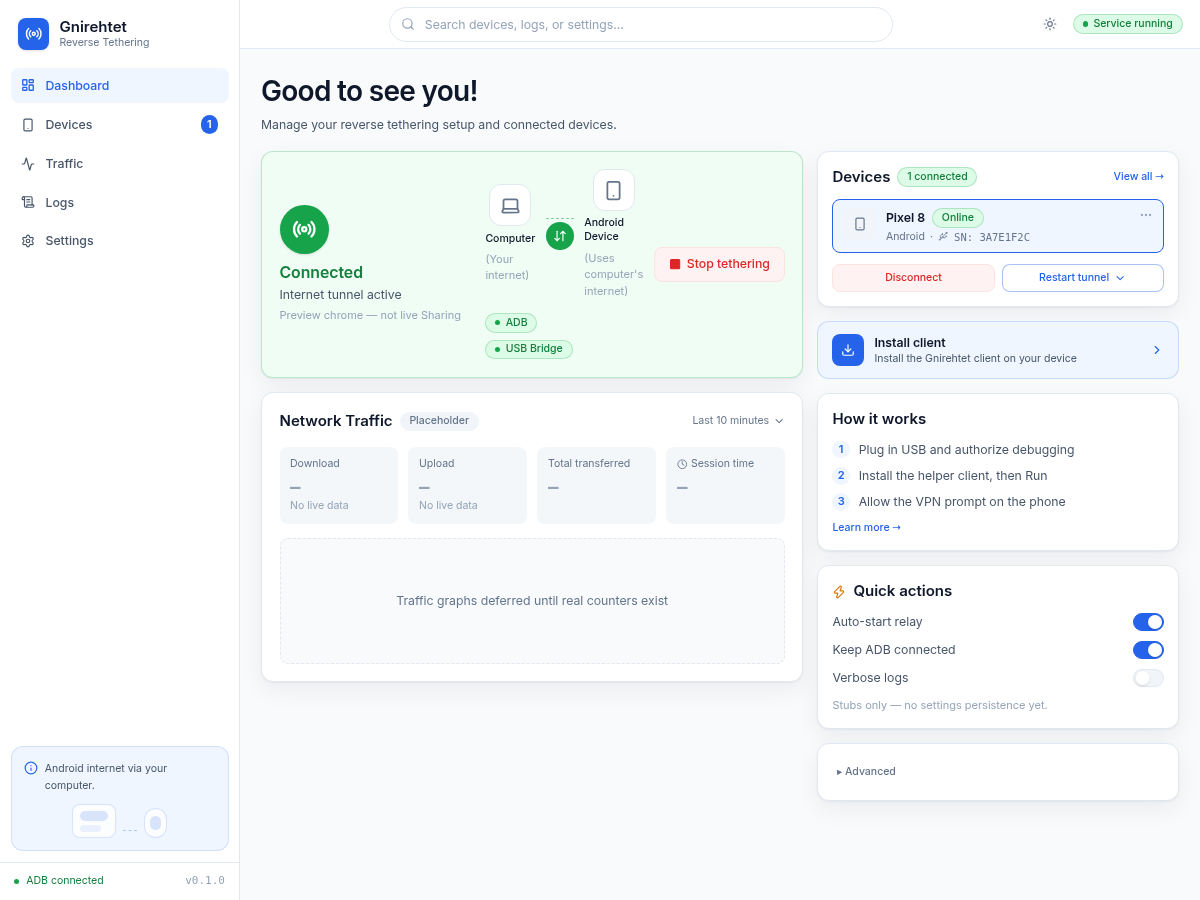
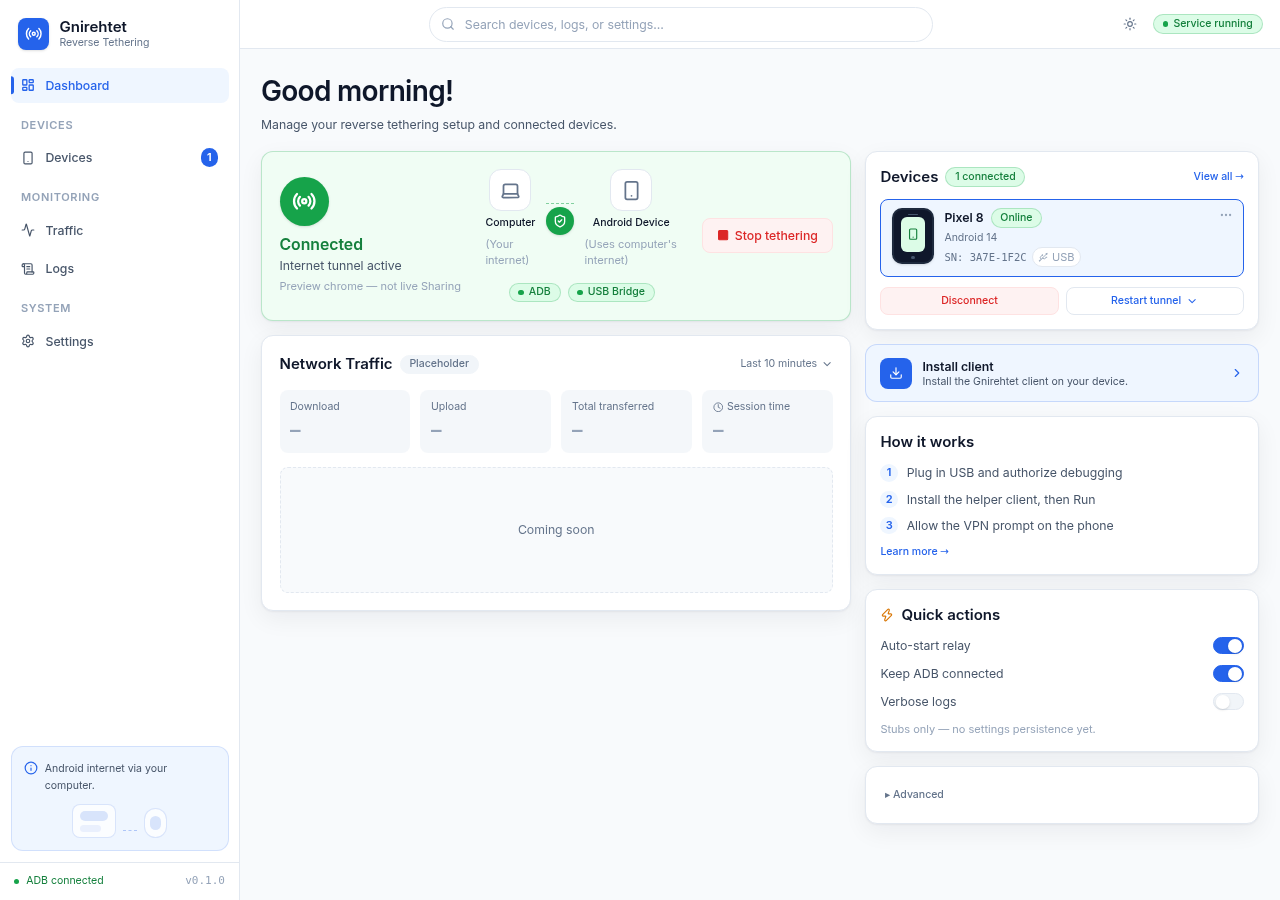
fix(ui): polish sidebar and DeviceCard to V3 mockup
Add sidebar section labels + 3px active bar; restyle DeviceCard phone
thumb, USB chip, and soft Disconnect / outline Restart; quiet traffic
placeholder; Connected hero uses shield/check. Honesty badges keep
"1 device" until Sharing/preview.

diff --git a/apps/desktop/src/routes/+page.svelte b/apps/desktop/src/routes/+page.svelte
@@ -78,10 +78,10 @@
     Lightbulb,
     Laptop,
     Smartphone,
-    ArrowDownUp,
     Clock,
     Wrench,
     CircleCheck,
+    ShieldCheck,
     AlertTriangle,
   } from "@lucide/svelte";
 
@@ -458,7 +458,7 @@
       adb = { path: "/usr/bin/adb", version: "1.0.41", available: true };
       adbErrorCode = null;
       devices = [
-        { serial: "3A7E1F2C", adbState: "device", model: "Pixel 8" },
+        { serial: "3A7E1F2C", adbState: "device", model: "Pixel 8", androidVersion: "14" },
       ];
       selectedSerial = "3A7E1F2C";
       relay = { state: "relay_stopped", ownedBySession: false };
@@ -469,7 +469,7 @@
       adb = { path: "/usr/bin/adb", version: "1.0.41", available: true };
       adbErrorCode = null;
       devices = [
-        { serial: "emulator-5554", adbState: "device", model: "Pixel Preview" },
+        { serial: "emulator-5554", adbState: "device", model: "Pixel Preview", androidVersion: "14" },
       ];
       selectedSerial = "emulator-5554";
       relay = {
@@ -491,7 +491,7 @@
       adb = { path: "/usr/bin/adb", version: "1.0.41", available: true };
       adbErrorCode = null;
       devices = [
-        { serial: "3A7E1F2C", adbState: "device", model: "Pixel 8" },
+        { serial: "3A7E1F2C", adbState: "device", model: "Pixel 8", androidVersion: "14" },
       ];
       selectedSerial = "3A7E1F2C";
       relay = {
@@ -804,9 +804,25 @@
   });
 
   function shortSerial(serial: string): string {
-    if (serial.length <= 12) return serial;
-    return `${serial.slice(0, 4)}-${serial.slice(4, 8)}-…`;
+    const clean = serial.replace(/[^a-zA-Z0-9]/g, "");
+    if (clean.length <= 8) {
+      return clean.match(/.{1,4}/g)?.join("-") ?? serial;
+    }
+    return `${clean.slice(0, 4)}-${clean.slice(4, 8)}-…`;
   }
+
+  /** Devices panel badge: "N connected" only when Sharing/preview; else "N device(s)". */
+  const devicesReadyCount = $derived(
+    devices.filter((d) => d.adbState === "device").length,
+  );
+  const devicesBadgeText = $derived.by(() => {
+    const n = devicesReadyCount;
+    if (n <= 0) return null;
+    if (showConnectedHero) {
+      return `${n} connected`;
+    }
+    return n === 1 ? "1 device" : `${n} devices`;
+  });
 </script>
 <AppShell
   bind:activeNav
@@ -860,9 +876,10 @@
                     <div class="flex flex-1 flex-col items-center gap-1">
                       <div class="h-px w-full border-t border-dashed border-success/50"></div>
                       <div
-                        class="flex size-8 items-center justify-center rounded-full bg-success text-white"
+                        class="flex size-8 items-center justify-center rounded-full bg-success text-white shadow-sm"
+                        title="Tunnel healthy"
                       >
-                        <ArrowDownUp class="size-4" />
+                        <ShieldCheck class="size-4" strokeWidth={2.25} />
                       </div>
                     </div>
                     <div class="flex flex-col items-center gap-1.5">
@@ -1083,12 +1100,10 @@
               <div class="rounded-[var(--radius)] bg-bg-muted/80 px-3 py-3">
                 <p class="text-xs text-fg-muted">Download</p>
                 <p class="mt-1 font-mono text-xl font-semibold text-fg-subtle">—</p>
-                <p class="text-xs text-fg-subtle">No live data</p>
               </div>
               <div class="rounded-[var(--radius)] bg-bg-muted/80 px-3 py-3">
                 <p class="text-xs text-fg-muted">Upload</p>
                 <p class="mt-1 font-mono text-xl font-semibold text-fg-subtle">—</p>
-                <p class="text-xs text-fg-subtle">No live data</p>
               </div>
               <div class="rounded-[var(--radius)] bg-bg-muted/80 px-3 py-3">
                 <p class="text-xs text-fg-muted">Total transferred</p>
@@ -1105,7 +1120,7 @@
             <div
               class="mt-4 flex h-36 items-center justify-center rounded-[var(--radius)] border border-dashed border-border bg-bg-muted/50"
             >
-              <p class="text-sm text-fg-muted">Traffic graphs deferred until real counters exist</p>
+              <p class="text-sm text-fg-muted">Coming soon</p>
             </div>
           </Card>
 
@@ -1219,10 +1234,8 @@
             <div class="mb-3 flex items-center justify-between gap-2">
               <div class="flex items-center gap-2">
                 <h2 class="text-[15px] font-semibold text-fg">Devices</h2>
-                {#if devices.filter((d) => d.adbState === "device").length > 0}
-                  <Badge tone="success"
-                    >{devices.filter((d) => d.adbState === "device").length} connected</Badge
-                  >
+                {#if devicesBadgeText}
+                  <Badge tone="success">{devicesBadgeText}</Badge>
                 {/if}
               </div>
               <button
@@ -1269,13 +1282,21 @@
                         class:border-border={selectedSerial !== d.serial}
                         class:bg-bg-elevated={selectedSerial !== d.serial}
                       >
+                        <!-- Phone thumb ~48×64 -->
                         <div
-                          class="flex size-9 shrink-0 items-center justify-center rounded-[var(--radius)] bg-bg-muted"
+                          class="flex h-16 w-12 shrink-0 flex-col items-center justify-center rounded-[10px] border-2 border-slate-800 bg-slate-900 shadow-sm"
+                          aria-hidden="true"
                         >
-                          <Smartphone class="size-4 text-fg-muted" />
+                          <div class="mb-0.5 h-0.5 w-3 rounded-full bg-slate-600"></div>
+                          <div
+                            class="flex h-10 w-7 items-center justify-center rounded-sm bg-success-soft"
+                          >
+                            <Smartphone class="size-3.5 text-success-strong" strokeWidth={2.25} />
+                          </div>
+                          <div class="mt-1 h-1 w-1 rounded-full bg-slate-600"></div>
                         </div>
                         <div class="min-w-0 flex-1">
-                          <div class="flex items-center gap-2">
+                          <div class="flex flex-wrap items-center gap-2">
                             <span class="truncate text-sm font-semibold text-fg"
                               >{d.model ?? d.serial}</span
                             >
@@ -1283,13 +1304,21 @@
                               >{d.adbState === "device" ? "Online" : deviceStateLabel(d.adbState)}</Badge
                             >
                           </div>
-                          <p class="mt-0.5 flex items-center gap-1.5 text-xs text-fg-muted">
-                            {#if d.model}
-                              <span>Android</span>
-                              <span aria-hidden="true">·</span>
+                          <p class="mt-1 text-xs text-fg-muted">
+                            {#if d.androidVersion}
+                              Android {d.androidVersion}
+                            {:else if d.model}
+                              Android
                             {/if}
-                            <Usb class="size-3" />
+                          </p>
+                          <p class="mt-0.5 flex flex-wrap items-center gap-1.5 text-xs text-fg-muted">
                             <span class="font-mono">SN: {shortSerial(d.serial)}</span>
+                            <span
+                              class="inline-flex items-center gap-1 rounded-full border border-border bg-bg-elevated px-1.5 py-0.5 text-[11px] text-fg-subtle"
+                            >
+                              <Usb class="size-3" />
+                              USB
+                            </span>
                           </p>
                         </div>
                         <MoreHorizontal class="size-4 shrink-0 text-fg-subtle" />
@@ -1312,7 +1341,7 @@
                   <Button
                     variant="outline"
                     size="sm"
-                    class="flex-1"
+                    class="flex-1 border-border text-accent hover:bg-accent-50"
                     onclick={onRepairTunnel}
                     disabled={!canAct}
                   >
@@ -1338,7 +1367,7 @@
             </div>
             <div class="min-w-0 flex-1">
               <p class="text-sm font-semibold text-fg">Install client</p>
-              <p class="text-xs text-fg-body">Install the Gnirehtet client on your device</p>
+              <p class="text-xs text-fg-body">Install the Gnirehtet client on your device.</p>
             </div>
             <ChevronRight class="size-4 shrink-0 text-accent" />
           </button>

diff --git a/apps/desktop/src/lib/components/shell/AppShell.svelte b/apps/desktop/src/lib/components/shell/AppShell.svelte
@@ -38,12 +38,20 @@
   let search = $state("");
   let dark = $state(false);
 
-  const navItems: { id: NavId; label: string; icon: typeof LayoutDashboard }[] = [
-    { id: "dashboard", label: "Dashboard", icon: LayoutDashboard },
-    { id: "devices", label: "Devices", icon: Smartphone },
-    { id: "traffic", label: "Traffic", icon: Activity },
-    { id: "logs", label: "Logs", icon: ScrollText },
-    { id: "settings", label: "Settings", icon: Settings },
+  type NavEntry =
+    | { kind: "label"; label: string }
+    | { kind: "item"; id: NavId; label: string; icon: typeof LayoutDashboard };
+
+  /** V3 §20 section labels: (none) Dashboard · DEVICES · MONITORING · SYSTEM */
+  const navEntries: NavEntry[] = [
+    { kind: "item", id: "dashboard", label: "Dashboard", icon: LayoutDashboard },
+    { kind: "label", label: "Devices" },
+    { kind: "item", id: "devices", label: "Devices", icon: Smartphone },
+    { kind: "label", label: "Monitoring" },
+    { kind: "item", id: "traffic", label: "Traffic", icon: Activity },
+    { kind: "item", id: "logs", label: "Logs", icon: ScrollText },
+    { kind: "label", label: "System" },
+    { kind: "item", id: "settings", label: "Settings", icon: Settings },
   ];
 
   function toggleTheme() {
@@ -71,30 +79,44 @@
     </div>
 
     <nav class="flex flex-1 flex-col gap-1 px-3">
-      {#each navItems as item}
-        {@const Icon = item.icon}
-        {@const active = activeNav === item.id}
-        <button
-          type="button"
-          class={cn(
-            "flex items-center gap-3 rounded-[var(--radius)] px-3 py-2.5 text-sm font-medium transition-colors",
-            active
-              ? "bg-accent-50 text-accent"
-              : "text-fg-body hover:bg-bg-muted hover:text-fg",
-          )}
-          aria-current={active ? "page" : undefined}
-          onclick={() => (activeNav = item.id)}
-        >
-          <Icon class="size-4 shrink-0" strokeWidth={active ? 2.25 : 2} />
-          <span class="flex-1 text-left">{item.label}</span>
-          {#if item.id === "devices" && deviceCount > 0}
-            <span
-              class="inline-flex min-w-5 items-center justify-center rounded-full bg-accent px-1.5 py-0.5 text-[11px] font-semibold text-accent-fg"
-            >
-              {deviceCount}
-            </span>
-          {/if}
-        </button>
+      {#each navEntries as entry}
+        {#if entry.kind === "label"}
+          <p
+            class="mt-3 px-3 pb-1 text-[11px] font-semibold uppercase tracking-[0.06em] text-fg-subtle first:mt-0"
+          >
+            {entry.label}
+          </p>
+        {:else}
+          {@const Icon = entry.icon}
+          {@const active = activeNav === entry.id}
+          <button
+            type="button"
+            class={cn(
+              "relative flex h-10 items-center gap-3 rounded-[var(--radius)] px-3 text-sm font-medium transition-colors",
+              active
+                ? "bg-accent-50 text-accent"
+                : "text-fg-body hover:bg-bg-muted hover:text-fg",
+            )}
+            aria-current={active ? "page" : undefined}
+            onclick={() => (activeNav = entry.id)}
+          >
+            {#if active}
+              <span
+                class="absolute left-0 top-1/2 h-5 w-[3px] -translate-y-1/2 rounded-r-sm bg-accent"
+                aria-hidden="true"
+              ></span>
+            {/if}
+            <Icon class="size-4 shrink-0" strokeWidth={active ? 2.25 : 2} />
+            <span class="flex-1 text-left">{entry.label}</span>
+            {#if entry.id === "devices" && deviceCount > 0}
+              <span
+                class="inline-flex min-w-5 items-center justify-center rounded-full bg-accent px-1.5 py-0.5 text-[11px] font-semibold text-accent-fg"
+              >
+                {deviceCount}
+              </span>
+            {/if}
+          </button>
+        {/if}
       {/each}
     </nav>
 

diff --git a/apps/desktop/src/lib/types/orchestrator.ts b/apps/desktop/src/lib/types/orchestrator.ts
@@ -12,6 +12,8 @@ export type DeviceInfo = {
   adbState: string;
   model?: string | null;
   product?: string | null;
+  /** Optional Android version label when known (e.g. "14"). */
+  androidVersion?: string | null;
 };
 
 /** DeviceChanged event — full list snapshot (MVP replace-all). */
